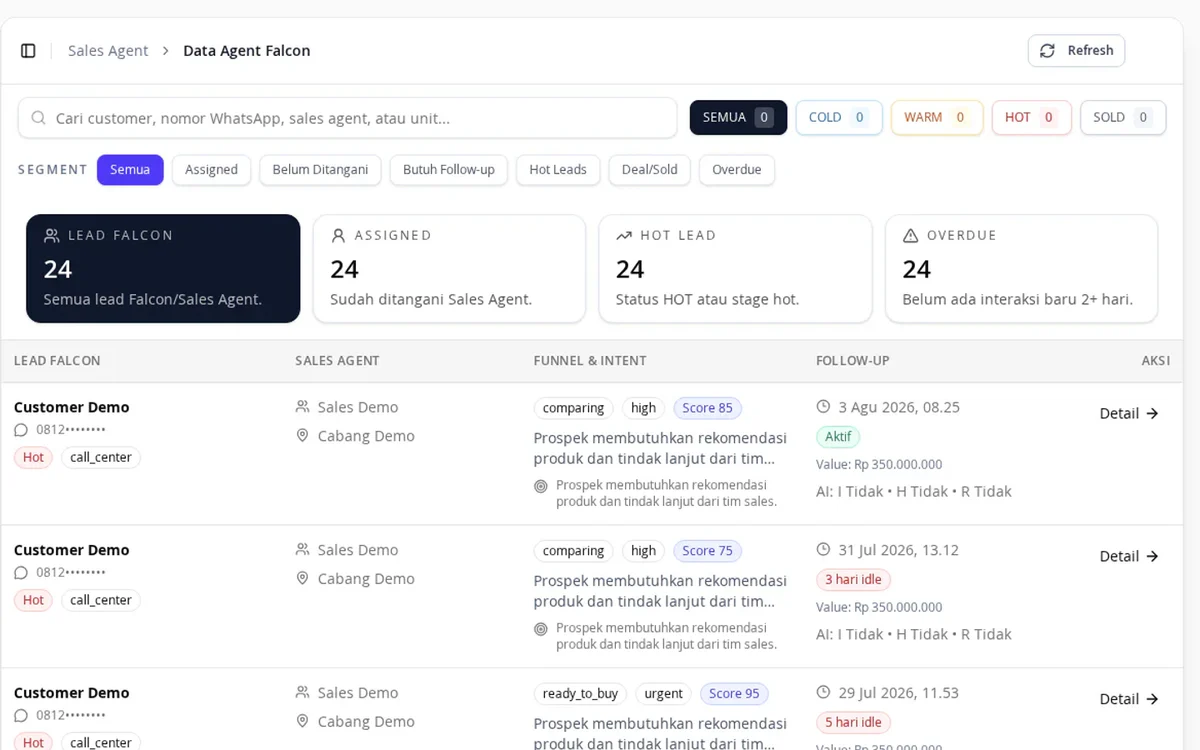
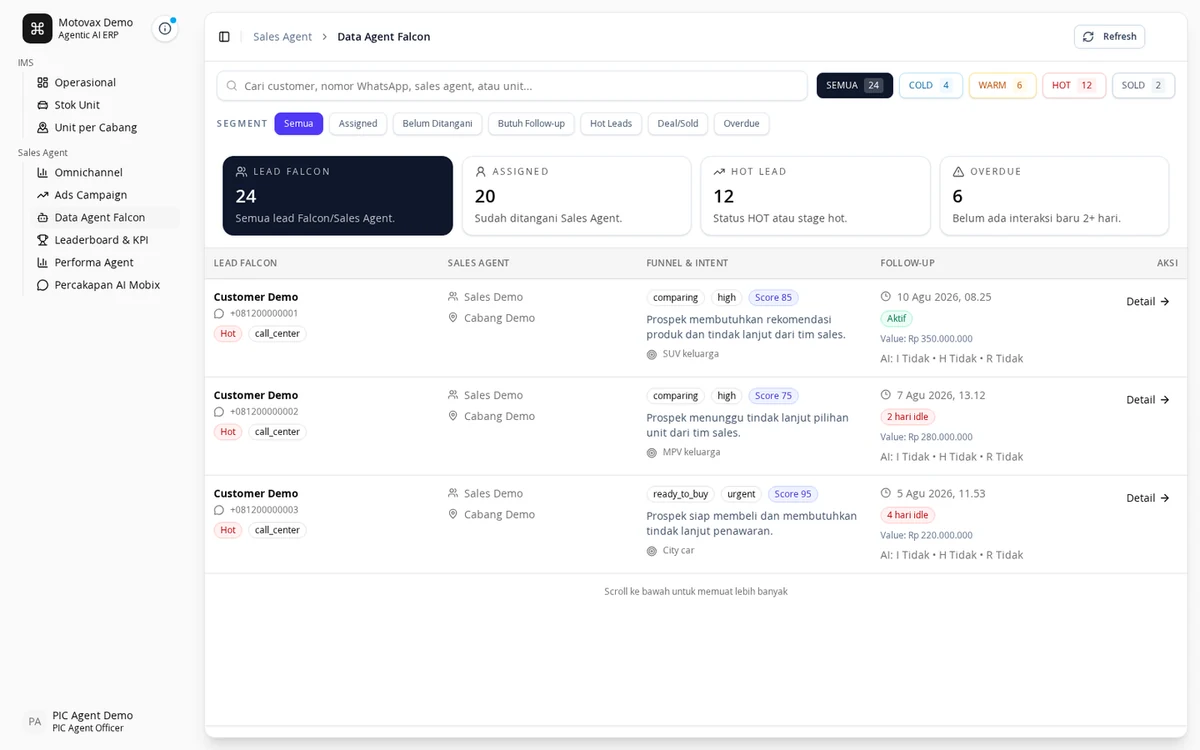
fix: tampilkan sidebar pada screenshot fitur auto follow

diff --git a/fitur/feature-page.js b/fitur/feature-page.js
@@ -575,11 +575,14 @@
 
     const stem = pathname.replace(/\.png$/i, "");
     const variantBase = `../assets/feature-previews/${escapeHtml(stem)}`;
+    const variantVersion = file.includes("?")
+      ? escapeHtml(file.slice(file.indexOf("?")))
+      : "?v=20260810-img-3";
     const sizes = hero ? "(max-width: 900px) calc(100vw - 36px), 540px" : "(max-width: 900px) calc(100vw - 36px), 560px";
     return `<picture>
               <source
                 type="image/webp"
-                srcset="${variantBase}-720.webp?v=20260810-img-3 720w, ${variantBase}-1200.webp?v=20260810-img-3 1200w"
+                srcset="${variantBase}-720.webp${variantVersion} 720w, ${variantBase}-1200.webp${variantVersion} 1200w"
                 sizes="${sizes}"
               >
               ${image}
@@ -665,7 +668,7 @@
       );
     } else if (slug === "automasi-workflow" && index === 1) {
       preview = captured(
-        "workflow-auto-follow-public.png?v=20260810-workflow-3",
+        "workflow-auto-follow-public.png?v=20260810-workflow-sidebar-1",
         "Sales Agent · Auto Follow",
         "Lead aktif, butuh follow-up, dan overdue terlihat bersama interaksi terakhir agar peluang berikutnya mudah diprioritaskan.",
       );

diff --git a/fitur/automasi-workflow.html b/fitur/automasi-workflow.html
@@ -66,7 +66,7 @@
 
     <script>window.__FEATURE_SLUG__ = "automasi-workflow";</script>
     <script src="./features-data.js?v=20260810-workflow-3"></script>
-    <script src="./feature-page.js?v=20260810-workflow-3"></script>
+    <script src="./feature-page.js?v=20260810-workflow-sidebar-1"></script>
     <script src="../script.js?v=20260806-2"></script>
   </body>
 </html>
